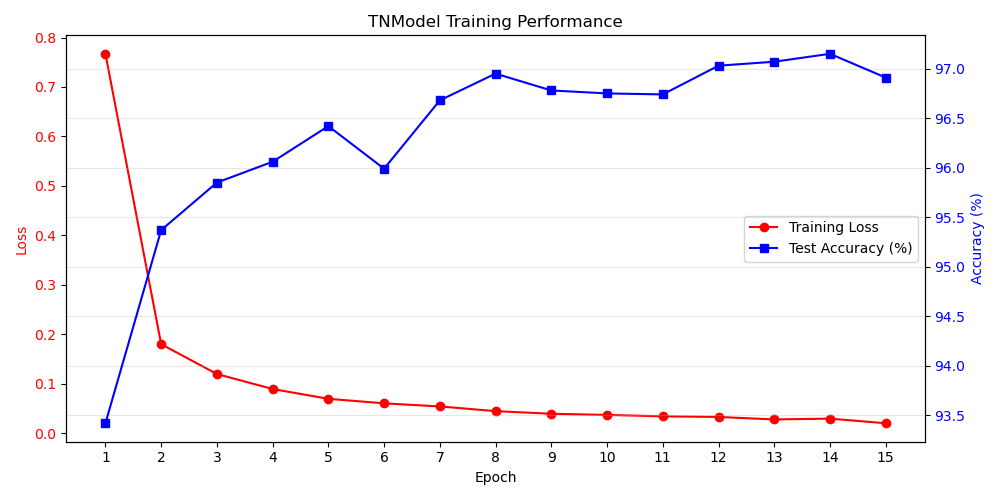
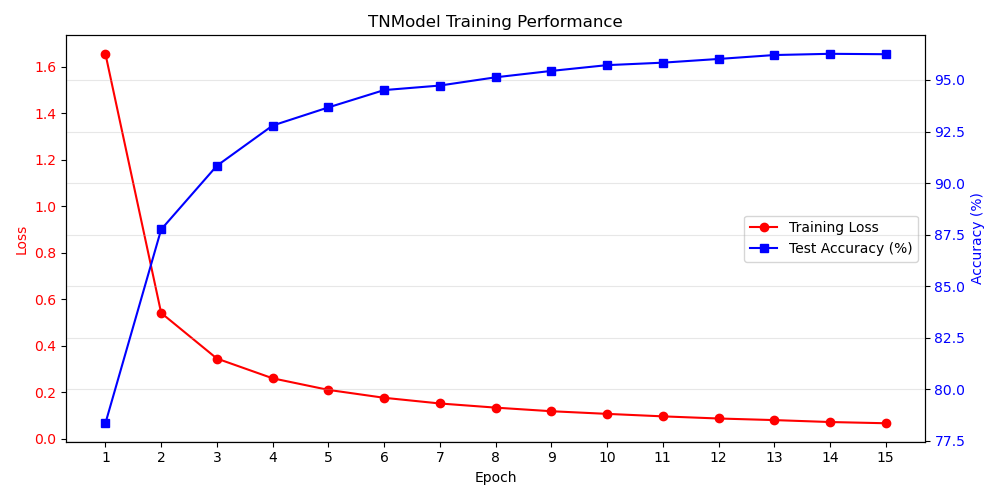
quimb

diff --git a/test_grad.py b/test_grad.py
@@ -117,7 +117,7 @@ class Conv(GTN):
 DIM_PATCHES = xinp_train.shape[1] # 50
 DIM_PIXELS = xinp_train.shape[2]  # 17
 
-bond_dim = 2
+bond_dim = 8
 
 # Helper for init
 def init_data(*shape):
@@ -150,30 +150,6 @@ model = Conv(
     input_dims=input_labels
 ).to(device)
 
-input_labels = [
-    [0, ("0_patches", "0_pixels")],  # Node 0: Uses Input[0] with these indices
-    [0, ("1_patches", "1_pixels")],  # Node 1: Uses Input[0] with these indices
-    [0, ("2_patches", "2_pixels")]   # Node 2: Uses Input[0] with these indices
-]
-
-# --- 2. Initialize Inputs Loader ---
-loader = Inputs(
-    inputs=[xinp_train],          
-    outputs=[y_train_one_hot],    # <--- PASS ONE-HOT HERE (Batch, 10)
-    outputs_labels=["class_out"], # This label now correctly refers to dim size 10
-    input_labels=input_labels,    
-    batch_dim="s",                
-    batch_size=BATCH_SIZE
-)
-
-model_n = NTN(
-    tn=qt.TensorNetwork(patches_mps_list + pixels_mps_list), 
-    output_dims=["class_out"],
-    input_dims=["0_patches", "0_pixels", "1_patches", "1_pixels", "2_patches", "2_pixels"],
-    loss=nn.CrossEntropyLoss(), # Works with One-Hot Float targets automatically
-    data_stream=loader
-)
-
 optimizer = optim.AdamW(model.parameters(), lr=1e-3)
 criterion = nn.CrossEntropyLoss()
 
@@ -183,7 +159,6 @@ history = {'epoch': [], 'loss': [], 'accuracy': []}
 epochs = 15
 
 print(f"Model initialized on {device}. Input: {DIM_PATCHES} Patches x {DIM_PIXELS} Pixels.")
-results = model_n.fit(2, regularize=False, jitter=True, eval_metrics=CLASSIFICATION_METRICS)
 
 def evaluate(loader):
     model.eval()
